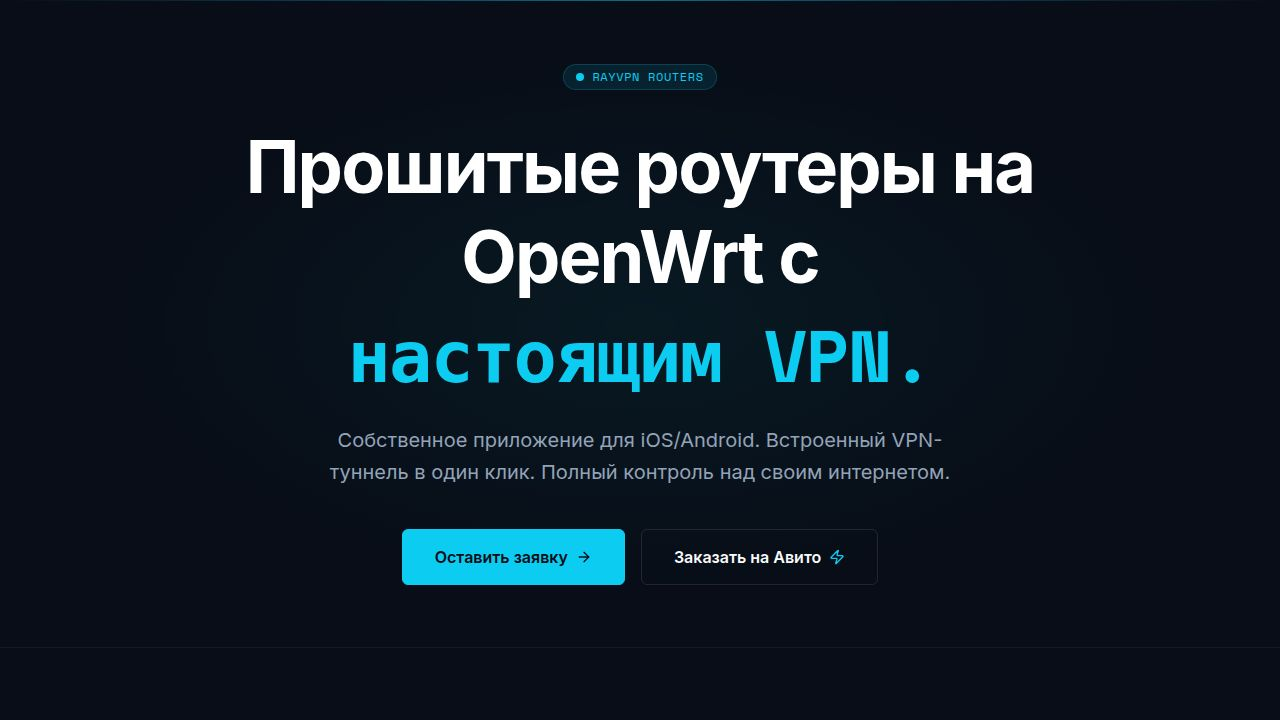
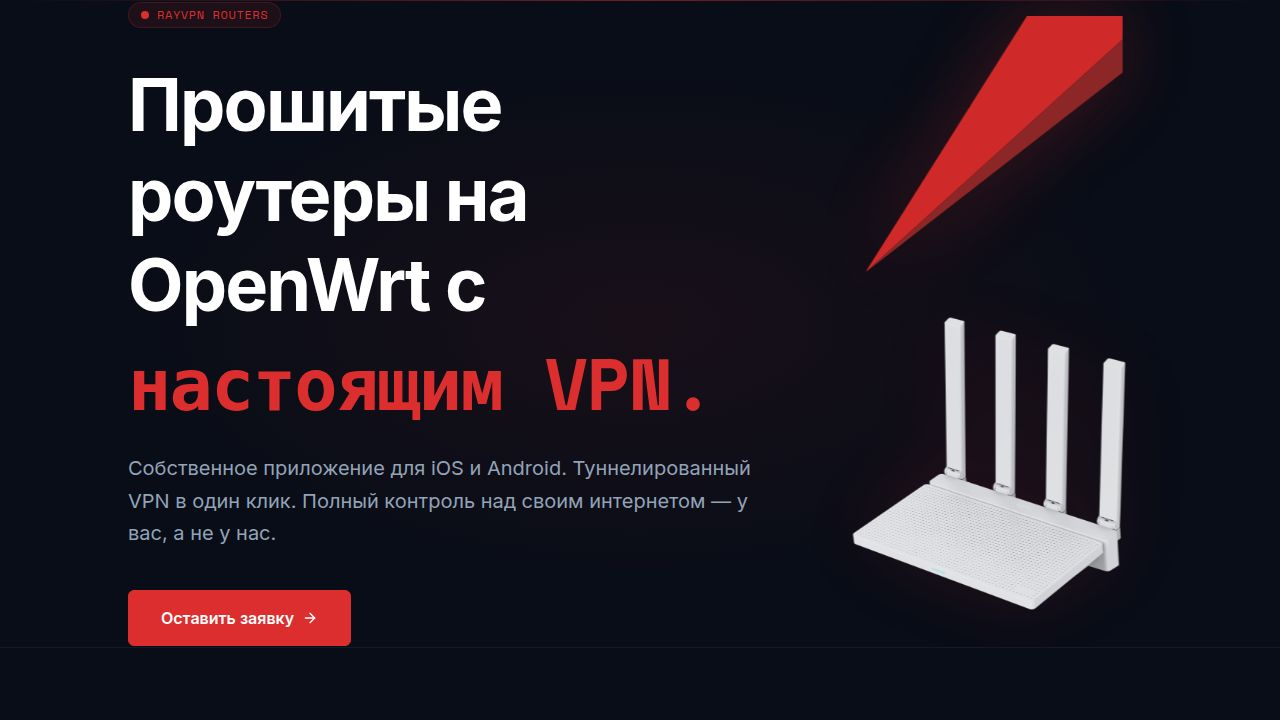
Update order form to send requests to Telegram
Integrate Telegram Bot API to send form submissions directly to a specified chat and thread, including loading states and error handling.

Replit-Commit-Author: Agent
Replit-Commit-Session-Id: e6d56f4f-2f60-4ff6-a1a1-e0aeb165f9df
Replit-Commit-Checkpoint-Type: full_checkpoint
Replit-Commit-Event-Id: b49a8e99-0a8a-4bae-93f5-f1fe7171a1b0
Replit-Commit-Screenshot-Url: https://storage.googleapis.com/screenshot-production-us-central1/373fc86c-a400-4dcb-99f8-0886a943bd3c/e6d56f4f-2f60-4ff6-a1a1-e0aeb165f9df/qVhcVDZ
Replit-Helium-Checkpoint-Created: true

diff --git a/artifacts/rayvpn-routers/src/components/OrderForm.tsx b/artifacts/rayvpn-routers/src/components/OrderForm.tsx
@@ -1,3 +1,4 @@
+import { useState } from "react";
 import { useForm } from "react-hook-form";
 import { zodResolver } from "@hookform/resolvers/zod";
 import * as z from "zod";
@@ -6,31 +7,76 @@ import { Button } from "@/components/ui/button";
 import { Form, FormControl, FormField, FormItem, FormLabel, FormMessage } from "@/components/ui/form";
 import { Input } from "@/components/ui/input";
 import { motion } from "framer-motion";
-import { ShoppingCart } from "lucide-react";
+import { ShoppingCart, Loader2 } from "lucide-react";
 
 const formSchema = z.object({
   name: z.string().min(2, { message: "Имя должно содержать минимум 2 символа." }),
   contact: z.string().min(5, { message: "Укажите корректный телефон или Telegram." }),
 });
 
+const BOT_TOKEN = import.meta.env.VITE_TG_BOT_TOKEN as string;
+const CHAT_ID = import.meta.env.VITE_TG_CHAT_ID as string;
+const THREAD_ID = import.meta.env.VITE_TG_THREAD_ID as string;
+
+async function sendToTelegram(name: string, contact: string): Promise<void> {
+  const text =
+    `🔔 *Новая заявка с сайта RayVPN Routers*\n\n` +
+    `👤 Имя: ${name}\n` +
+    `📱 Контакт: ${contact}`;
+
+  const params: Record<string, string> = {
+    chat_id: CHAT_ID,
+    text,
+    parse_mode: "Markdown",
+  };
+  if (THREAD_ID) {
+    params.message_thread_id = THREAD_ID;
+  }
+
+  const res = await fetch(
+    `https://api.telegram.org/bot${BOT_TOKEN}/sendMessage`,
+    {
+      method: "POST",
+      headers: { "Content-Type": "application/json" },
+      body: JSON.stringify(params),
+    }
+  );
+
+  if (!res.ok) {
+    const err = await res.json().catch(() => ({}));
+    throw new Error((err as { description?: string }).description ?? "Telegram API error");
+  }
+}
+
 export function OrderForm() {
   const { toast } = useToast();
+  const [sending, setSending] = useState(false);
 
   const form = useForm<z.infer<typeof formSchema>>({
     resolver: zodResolver(formSchema),
-    defaultValues: {
-      name: "",
-      contact: "",
-    },
+    defaultValues: { name: "", contact: "" },
   });
 
-  function onSubmit(_values: z.infer<typeof formSchema>) {
-    toast({
-      title: "Спасибо!",
-      description: "Мы свяжемся с вами скоро.",
-      duration: 5000,
-    });
-    form.reset();
+  async function onSubmit(values: z.infer<typeof formSchema>) {
+    setSending(true);
+    try {
+      await sendToTelegram(values.name, values.contact);
+      toast({
+        title: "Спасибо!",
+        description: "Мы свяжемся с вами скоро.",
+        duration: 5000,
+      });
+      form.reset();
+    } catch {
+      toast({
+        title: "Ошибка отправки",
+        description: "Попробуйте ещё раз или напишите нам напрямую в Telegram.",
+        variant: "destructive",
+        duration: 6000,
+      });
+    } finally {
+      setSending(false);
+    }
   }
 
   return (
@@ -97,9 +143,17 @@ export function OrderForm() {
                 <Button
                   type="submit"
                   className="w-full h-14 text-base font-semibold"
+                  disabled={sending}
                   data-testid="button-submit-order"
                 >
-                  Отправить заявку
+                  {sending ? (
+                    <span className="flex items-center gap-2">
+                      <Loader2 className="w-4 h-4 animate-spin" />
+                      Отправляем...
+                    </span>
+                  ) : (
+                    "Отправить заявку"
+                  )}
                 </Button>
               </form>
             </Form>